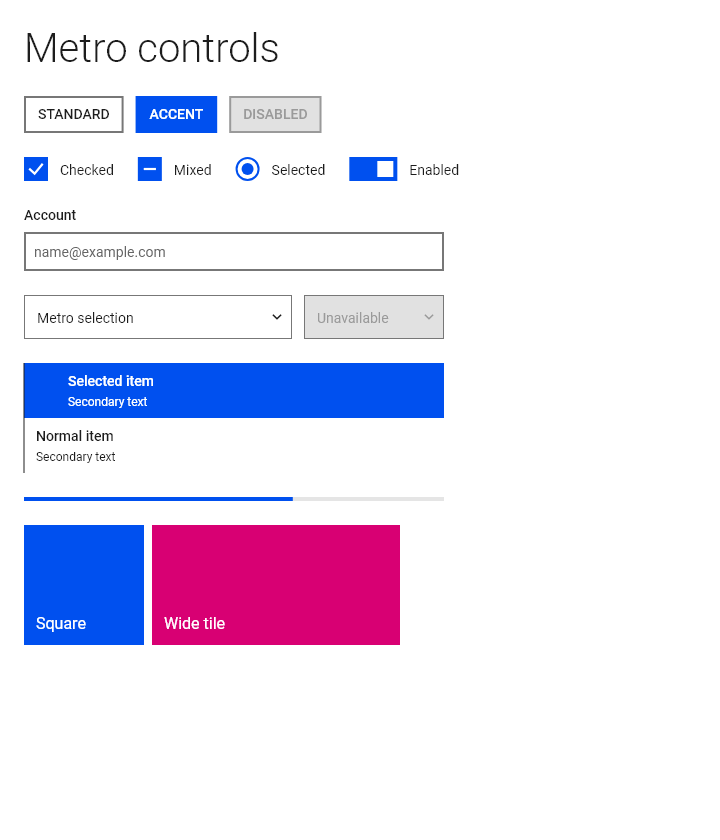
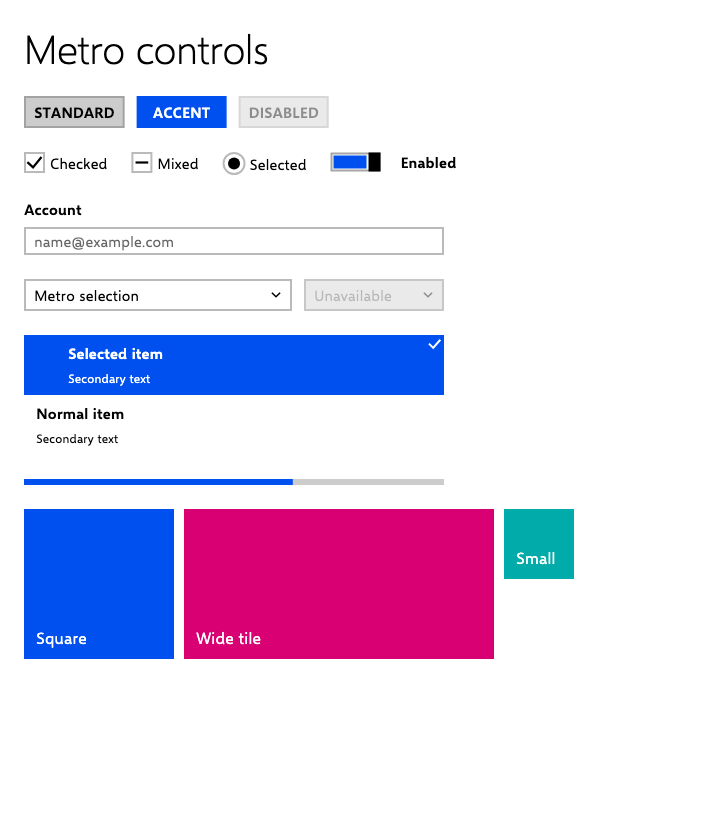
test(goldens): refresh the visual baselines for the fidelity pass
The checked in baselines still rendered the pre-0.1.0 styling and the
bundled Roboto face, so they showed accent filled check boxes and a Roboto
type ramp that the code no longer produced, and the README previews were
byte copies of those stale images.

Regenerate every baseline and both previews from the current widgets, let
the controls surface show the small, square, and wide tile footprints, and
document how to refresh baselines and why a platform-local refresh still
has to be re-approved on the Windows renderer.

Changed region(s): [[0.0306, 0.2476, 0.7944, 0.8048], [0.0306, 0.031, 0.6417, 0.2167]]

diff --git a/test/goldens/metro_controls_golden_test.dart b/test/goldens/metro_controls_golden_test.dart
@@ -171,13 +171,18 @@ void main() {
                         ),
                         const SizedBox(height: MetroSpacing.lg),
                         MetroTileGrid(
-                          tileExtent: 120,
                           children: [
                             MetroTile(title: 'Square', onPressed: () {}),
                             MetroTile(
                               size: MetroTileSize.wide,
                               title: 'Wide tile',
                               backgroundColor: MetroColors.magenta,
+                              onPressed: () {},
+                            ),
+                            MetroTile(
+                              size: MetroTileSize.small,
+                              title: 'Small',
+                              backgroundColor: MetroColors.teal,
                               onPressed: () {},
                             ),
                           ],

diff --git a/doc/reference_audit.md b/doc/reference_audit.md
@@ -113,6 +113,7 @@ These are intentional. Change them only with a design decision, not silently.
 | `header`, `title`, and `tileTitle` type steps, and the 30pt and 15pt sizes | The era ramp jumps from 42pt to 20pt to 11pt; the extra steps come from later Metro libraries and keep hierarchy usable in application layouts. |
 | Combo box and search suggestions use a Flutter popup with 40px rows | The era used native drop-downs and suggestion panes; the Flutter equivalents are keyboard accessible and viewport aware. |
 | Picker dialogs scroll in columns | Windows 8 desktop used segmented drop-downs; the scrolling dialog is a keyboard-accessible adaptation. |
+| Dialogs keep a 2px frame | The era content dialog was a borderless panel over a dimmed surface; a frame keeps the panel legible over arbitrary application content. |
 | Row heights of 52 and 44 in lists and the data grid | The era did not fix list row heights; these are package measurements that keep touch targets comfortable. |
 | High-contrast palettes | Windows 8 read system colors; the package ships explicit high-contrast schemes so tests and previews are deterministic. |
 

diff --git a/doc/development.md b/doc/development.md
@@ -55,6 +55,20 @@ in baselines are the canonical visual reference. Package screenshots are copies
 of approved Golden images and are checked by
 `tool/check_package_screenshots.dart`.
 
+Regenerate baselines with:
+
+```sh
+flutter test --update-goldens --tags golden
+dart run tool/check_package_screenshots.dart --update
+flutter test --tags golden
+```
+
+Text rasterization differs between platforms, so a baseline refreshed on macOS
+or Linux shows the current layout and colors but not the canonical Windows
+pixels. Refresh the affected baselines on the Windows renderer before a release
+and review the diff; a stale baseline is worse than none, because it silently
+blesses the previous design.
+
 Use the Gallery in `example` to validate a component in an integrated
 application. The quality workflow checks formatting, API declarations,
 screenshots, analysis, tests, a publish dry run, and Gallery analysis/tests/web
